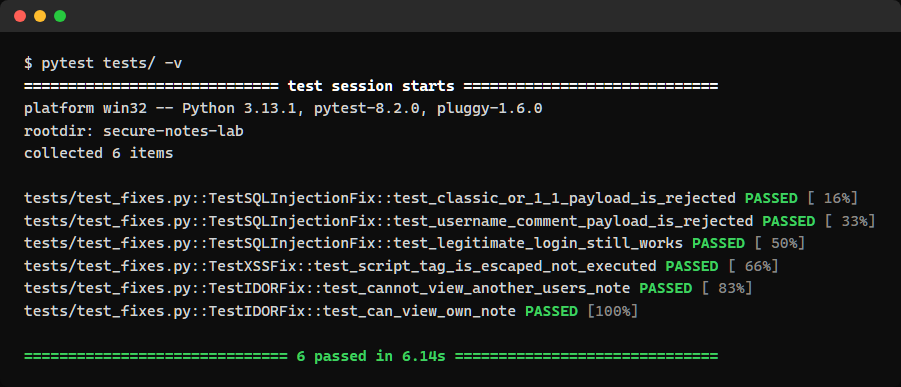
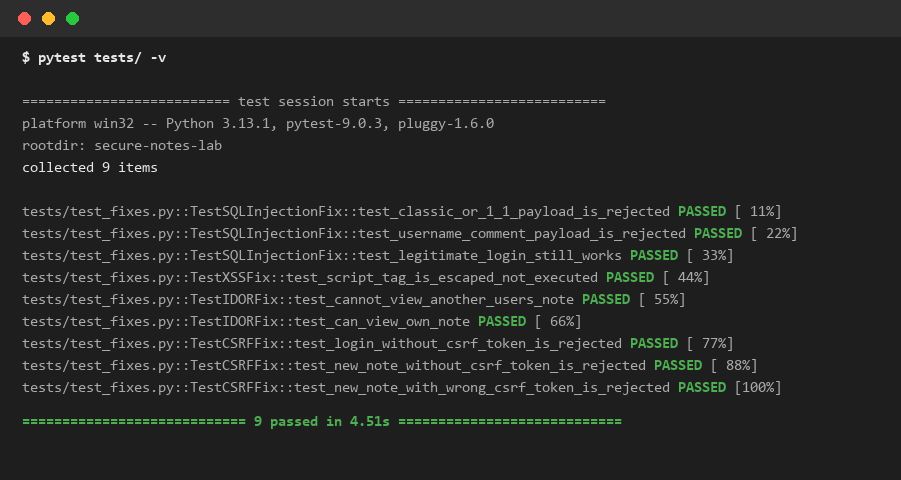
docs: sync README with current state (9 tests, 5 vulnerabilities, CI practices)
- 'All 6 tests pass' -> 9 (3 CSRF tests were added after this was last
  written); regenerated the pytest screenshot to match.
- '4 vulnerabilities' -> 5 throughout (the CSRF bonus was added as a
  5th, not reflected in the intro/tree/demonstrates sections).
- Added a bullet under 'What this project demonstrates' for the CI
  security practices (Bandit, pip-audit, branch protection,
  Dependabot) added since this section was last written - currently
  only visible via badges, not explained.

diff --git a/README.md b/README.md
@@ -4,7 +4,7 @@
 [![security scan](https://github.com/MihaelaAghirculesei/secure-notes-lab/actions/workflows/security.yml/badge.svg)](https://github.com/MihaelaAghirculesei/secure-notes-lab/actions/workflows/security.yml)
 [![latest release](https://img.shields.io/github/v/release/MihaelaAghirculesei/secure-notes-lab)](https://github.com/MihaelaAghirculesei/secure-notes-lab/releases/latest)
 
-A personal notes application built **twice**: once with 4 intentional vulnerabilities (OWASP Top 10), once fixed — with automated tests proving the fixes actually work.
+A personal notes application built **twice**: once with 5 intentional vulnerabilities (OWASP Top 10), once fixed — with automated tests proving the fixes actually work.
 
 > Educational/portfolio project. Meant to run **locally only**. The `vulnerable/` folder must never be exposed on the internet or used with real data.
 
@@ -50,7 +50,7 @@ Before/after code comparison with mechanism explained: [`docs/REMEDIATION.md`](d
 
 ### 4. Automated proof
 
-All 6 tests pass against the fixed version, proving the fixes hold.
+All 9 tests pass against the fixed version, proving the fixes hold.
 ![pytest passing](docs/screenshots/pytest-passing.png)
 
 ## Tech stack
@@ -91,13 +91,14 @@ pytest tests/ -v
 The tests prove with code, not just words, that on the fixed version:
 - classic SQL injection payloads are rejected and legitimate login still works;
 - a `<script>` payload is shown as escaped text, not executed;
-- a user cannot view another user's note (403 response).
+- a user cannot view another user's note (403 response);
+- a login or note-creation request without a valid CSRF token is rejected (403 response).
 
 ## Repository structure
 
 ```
 secure-notes-lab/
-├── vulnerable/    # version with the 4 intentional vulnerabilities
+├── vulnerable/    # version with the 5 intentional vulnerabilities
 ├── fixed/         # same app, vulnerabilities fixed
 ├── tests/         # automated tests against the fixed version
 ├── docs/
@@ -108,8 +109,9 @@ secure-notes-lab/
 
 ## What this project demonstrates
 
-- Practical (not just theoretical) understanding of 4 OWASP Top 10 vulnerabilities, from both the attack and defense side.
+- Practical (not just theoretical) understanding of 5 OWASP Top 10 vulnerabilities, from both the attack and defense side.
 - Ability to write automated tests as proof of security, not just proof of functionality.
+- Security baked into the development process, not just the code: CI runs a static analysis scan (Bandit) and a dependency vulnerability scan (pip-audit) as required checks on every PR, `main` is branch-protected on both, and Dependabot keeps dependencies current.
 - A background as a software developer applied to a security problem — the meeting point between the two skill sets.
 
 ## Background
